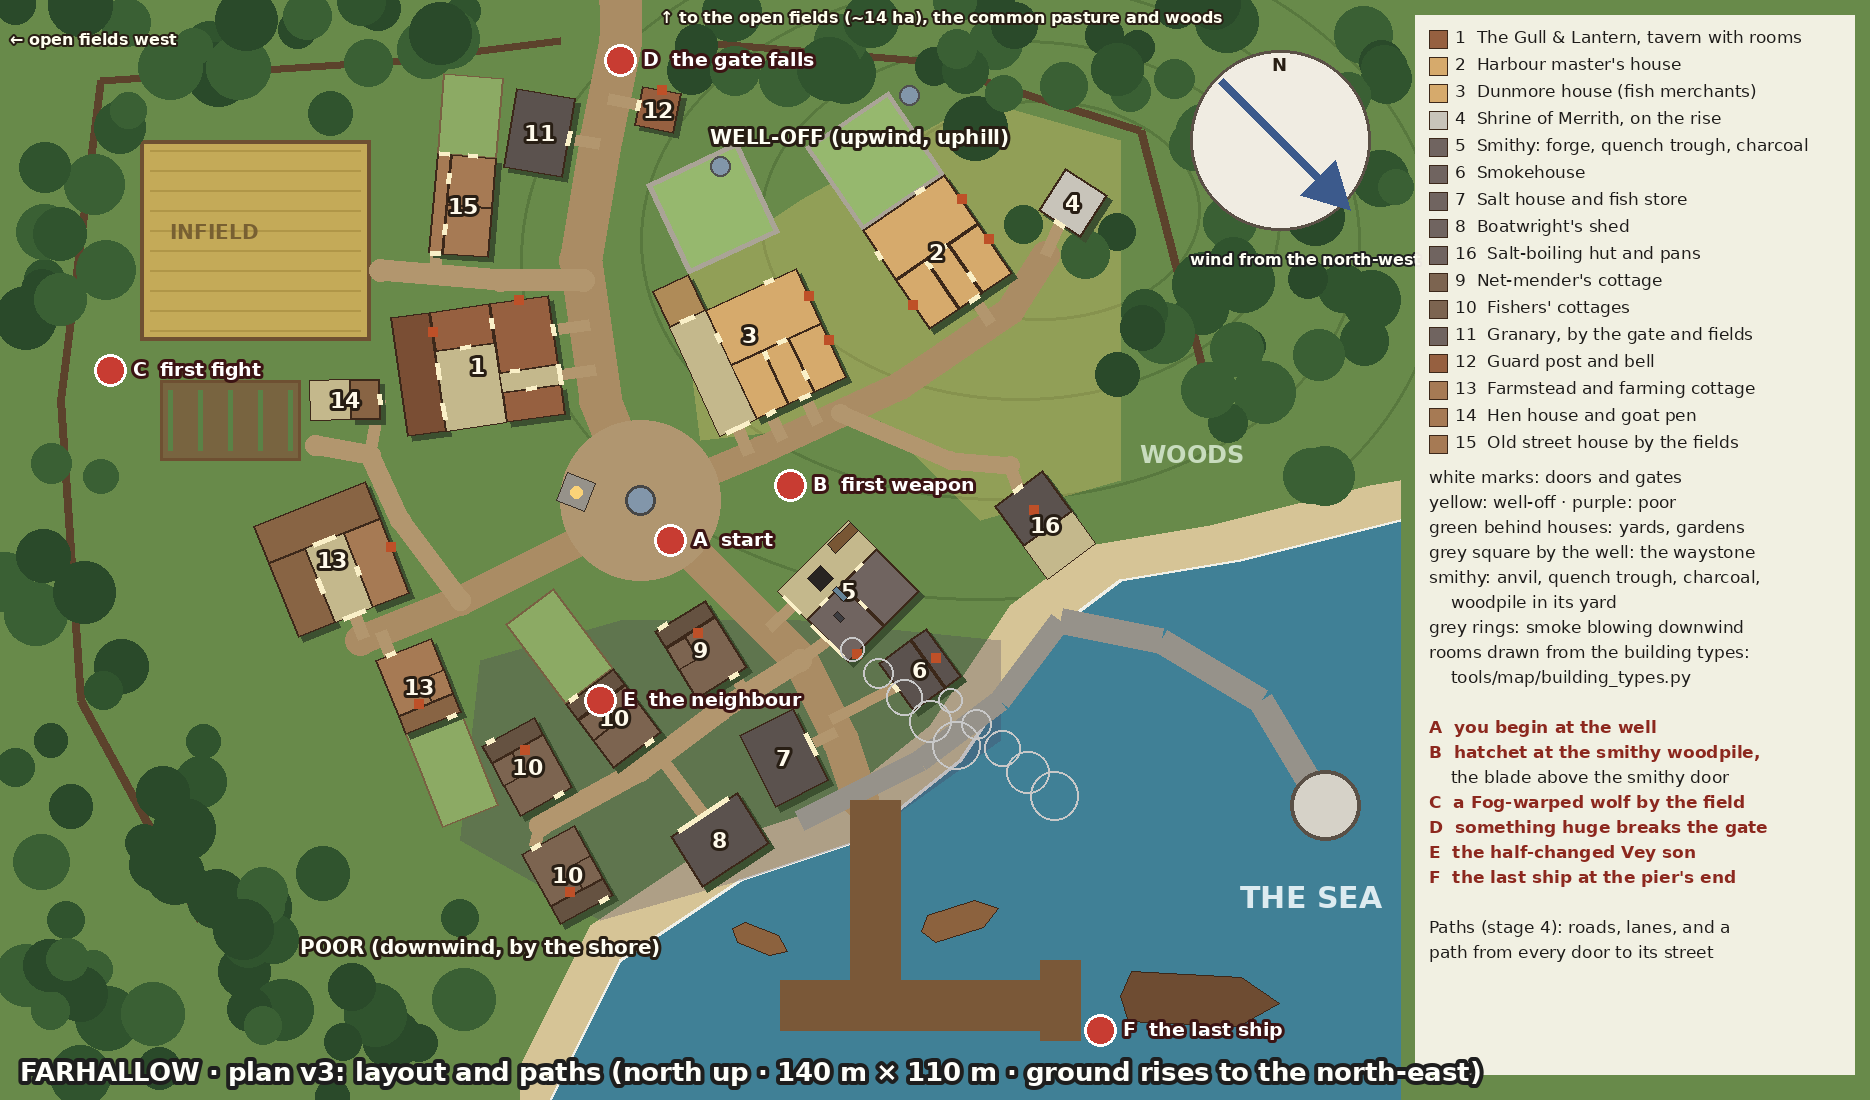
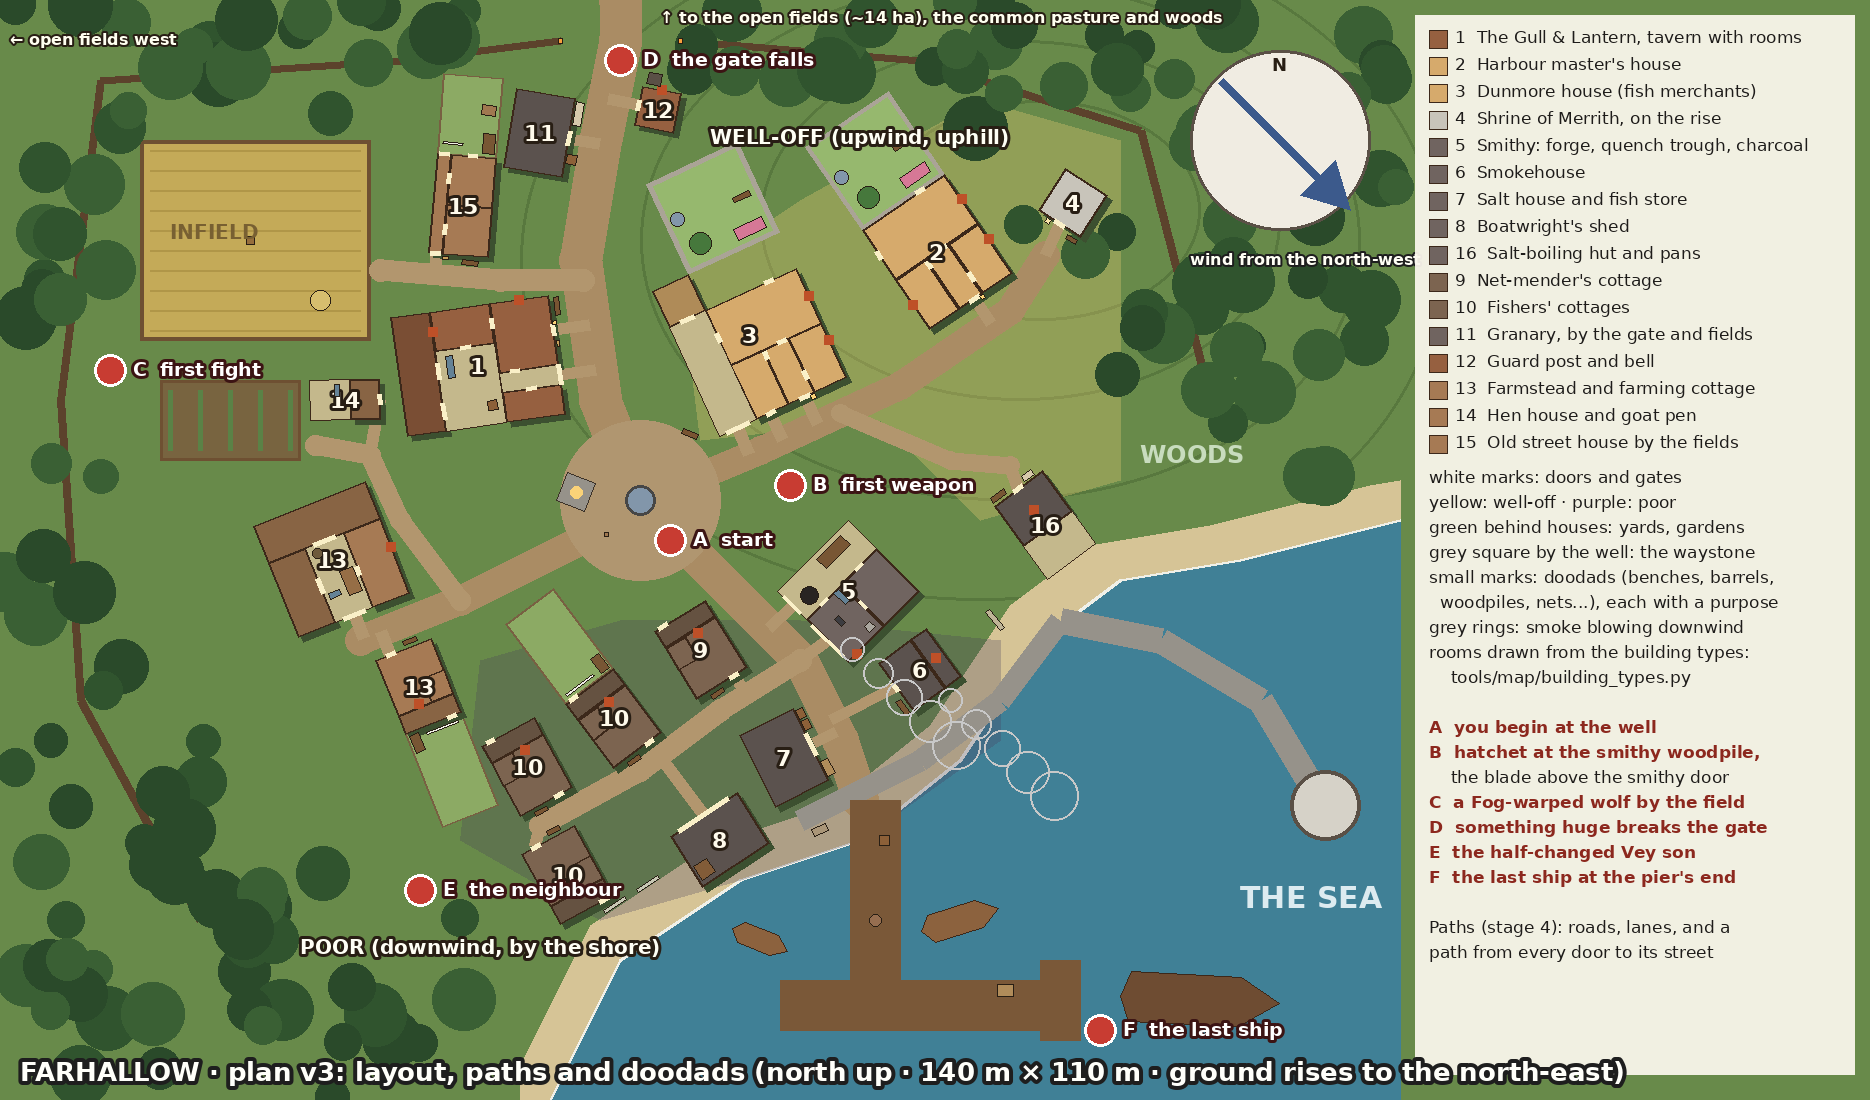
Farhallow stage 5: doodads
Claude-Session: https://claude.ai/code/session_01YFqBBR7wJ4yMRnMyKvr2Fs

diff --git a/docs/settlements/farhallow.md b/docs/settlements/farhallow.md
@@ -148,3 +148,25 @@ The main roads (gate, harbour, west and rise roads) and three lanes (the shore l
 field lane to the field gate, the farm lane to the hen house and vegetable plots), plus a short path from every door to
 its street. The plan script checks that every door reaches a path without crossing anything, that every lane starts and
 ends on another path, at a door or at a named place (the field gate, the plots), and that every lane is used.
+
+## 5. Doodads
+
+63 props, each with a purpose written beside it. Most come with their building type (`building_types.py`), so every
+inn, cottage or workshop brings its own: benches by doors, woodpiles and washing lines in yards, the inn's lantern,
+sign, horse trough and ale barrels, the smithy's anvil, quench trough, grindstone, charcoal and woodpile (where the
+hatchet waits for beat B), the well-off houses' own wells, fruit trees, flower beds and garden benches, the farm cart,
+trough and manure heap, the guard post's alarm bell, the shrine's bench and candles, the salt works' driftwood and
+sacks, barrels and crates outside the salt house, the half-built hull in the boatwright's shed. Plot props appear only
+where the plot is deep enough for them.
+
+Farhallow's own: the harbour master's notice post by the waystone, a bench by the well, gate torches on the gate posts,
+a scarecrow and a haystack in the infield, net racks on the beach by the fishers, a fish-drying rack by the smokehouse,
+a gutting table where the catch lands, lobster pots and barrels on the pier, and crates at the pier's end waiting for
+the trader's ship (the last ship of the prologue).
+
+The plan script checks each one: it has a purpose; every corner stands on ground its kind allows (flowers and fruit
+trees only in gardens, nets on the beach or in yards, lobster pots on the pier or beach, the anvil inside the
+workshop...); it is not on a road, lane or door path and keeps a metre clear of every door; it overlaps nothing.
+Lamps, signs, candles and torches hang on walls and posts, so only where they hang is checked.
+
+The poor cottages without a plot share the open ground between them; their nets dry on the beach.
